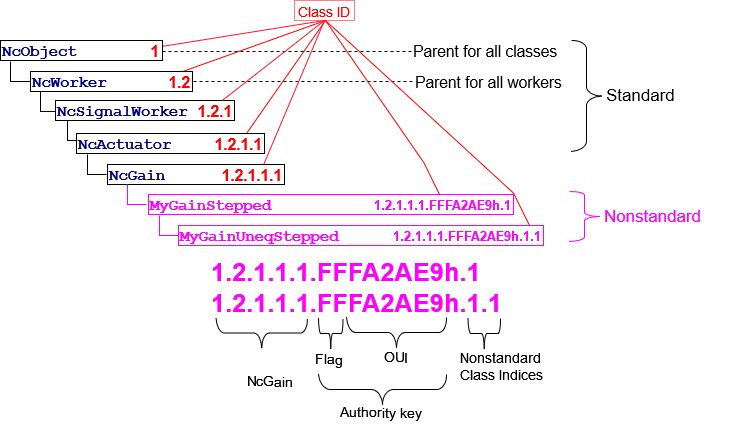
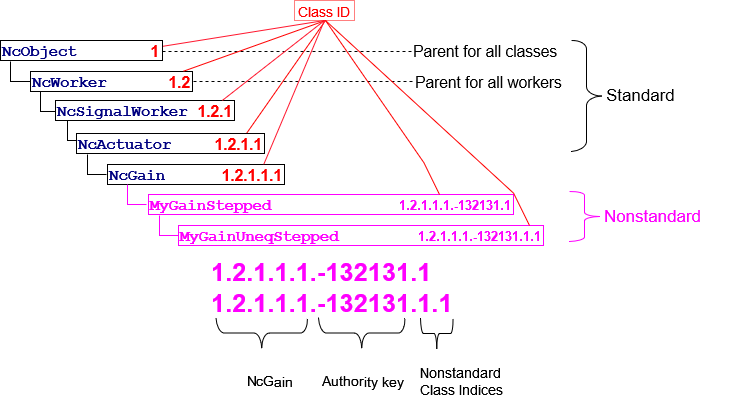
Modify how Authority Keys are created (#28)
from CID or OUI.
Now you just negate the integer.

diff --git a/docs/Appendix A - Class ID Format.md b/docs/Appendix A - Class ID Format.md
@@ -54,7 +54,7 @@ Authority keys use IEEE-registered organization identifiers.
 
 The IEEE (Institute of Electrical and Electronic Engineers) OUI and CID are identifiers that uniquely identify organizations. Any incorporated organization may receive a unique Public CID or OUI from the IEEE upon request and payment of a one-time fee. The difference between the two is that OUIs are used in Ethernet MAC addresses, CIDs are not. The address spaces of the two do not overlap, so they are the same for NCA purposes.
 
-For organizations which own a unique CID or OUI the authority key MUST be a negative 32-bit integer, constructed by prepending FFh onto the 24-bit organization identifier.
+For organizations which own a unique CID or OUI the authority key MUST be the organization identifier as an integer which MUST be negated.
 
 For organizations which do not own a unique CID or OUI the authority key MUST be **0**.
 
